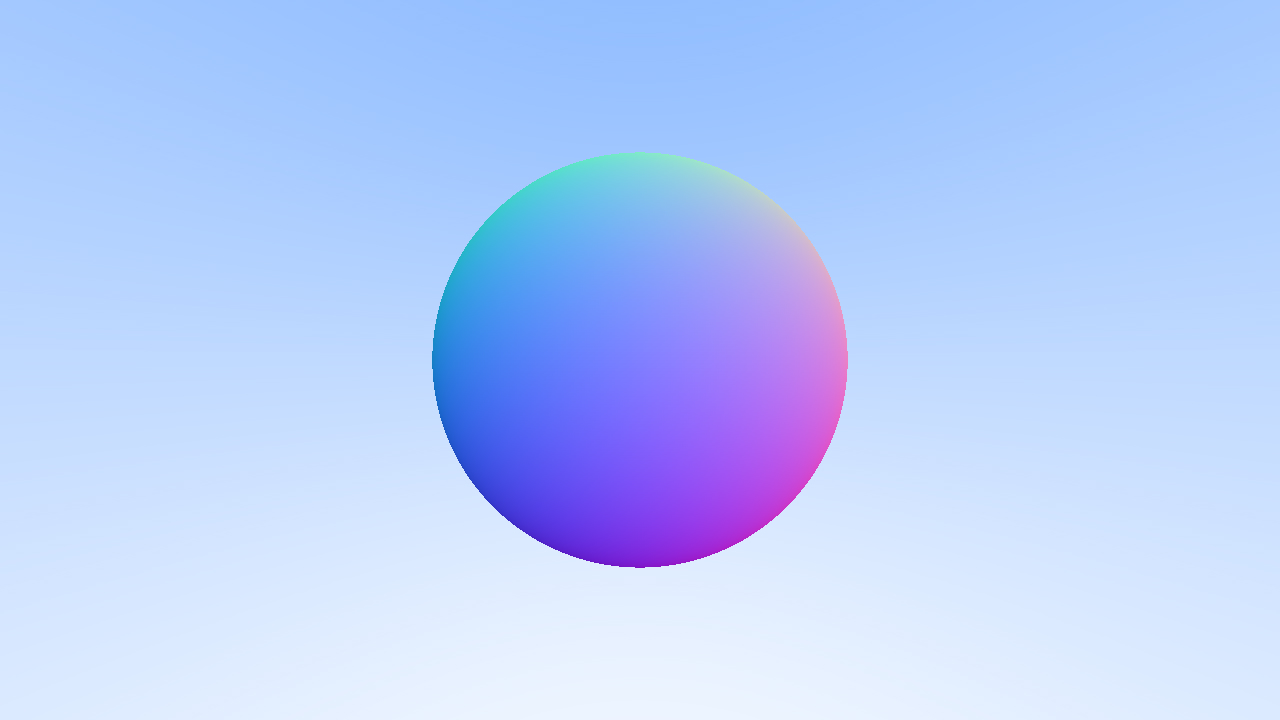
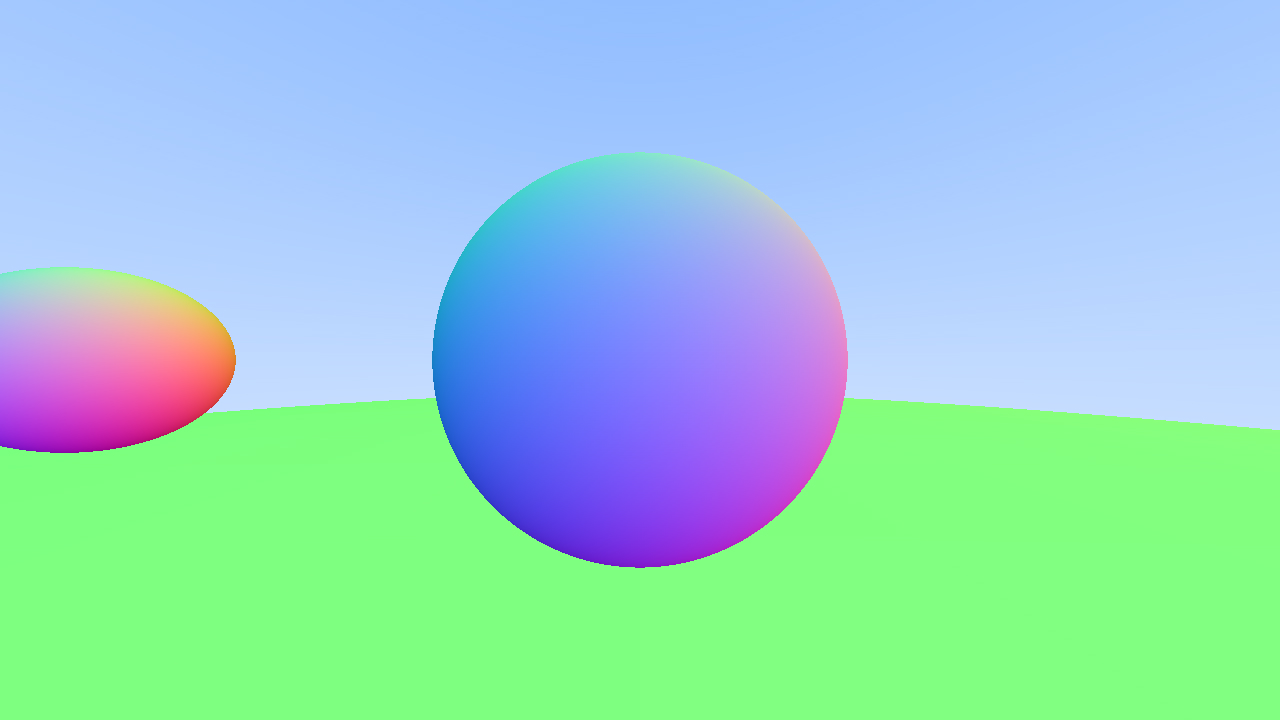
multiple hittable Object possible

diff --git a/RayTracing-Weekend/main.cpp b/RayTracing-Weekend/main.cpp
@@ -1,16 +1,21 @@
 #include <iostream>
 #include <fstream>
 #include <sstream>
+#include <windows.h>
 
+//jpg output
 #define STB_IMAGE_IMPLEMENTATION
 #define STBI_MSC_SECURE_CRT
 #define STB_IMAGE_WRITE_IMPLEMENTATION
 #include "stb_image.h"
 #include "stb_image_write.h"
 
-#include "color.h"
-#include "Vec3.h"
-#include "ray.h"
+//own utilities
+#include "Utility.h"
+
+#include "Color.h"
+#include "Sphere.h"
+#include "HittableList.h"
 
 double hitSphere(const Point3& center, double radius, const Ray& r) {
     Vec3 oc = r.getOrigin() - center;
@@ -26,14 +31,13 @@ double hitSphere(const Point3& center, double radius, const Ray& r) {
     }
 }
 
-Color rayColor(const Ray& r) {
-    auto t = hitSphere(Point3(0, 0, -1), 0.5, r);
-    if (t > 0.0) {
-        Vec3 N = normalize(r.at(t) - Vec3(0, 0, -1));
-        return 0.5 * Color(N.getX() + 1, N.getY() + 1, N.getZ() + 1);
+Color rayColor(const Ray& r, const Hittable& w) {
+    HitRecord rec;
+    if (w.hit(r, 0, infinity, rec)) {
+        return 0.5 * (rec.normal + Color(1, 1, 1));
     }
     Vec3 unitDirection = normalize(r.getDirection());
-    t = 0.5 * (unitDirection.getY() + 1.0);
+    auto t = 0.5 * (unitDirection.getY() + 1.0);
     return (1.0 - t) * Color(1.0, 1.0, 1.0) + t * Color(0.5, 0.7, 1.0);
 }
 
@@ -43,6 +47,12 @@ int main() {
     const int imageWidth = 1280;
     const int imageHeight = static_cast<int>(imageWidth / aspect);
     #define CHANNEL_NUM 3
+
+    //World
+    HittableList world;
+    world.add(make_shared<Sphere>(Point3(0, 0, -1), 0.5));
+    world.add(make_shared<Sphere>(Point3(0, -100.5, -1), 100));
+    world.add(make_shared<Sphere>(Point3(-1.5, 0, -1), 0.25));
 
     //Camera 
     auto viewportHeight = 2.0;
@@ -66,7 +76,7 @@ int main() {
             auto u = double(i) / (imageWidth - 1);
             auto v = double(j) / (imageHeight - 1);
             Ray r(origin, lowerLeftCorner + u * horizontal + v * vertical - origin);
-            Color pixelColor = rayColor(r);
+            Color pixelColor = rayColor(r, world);
 
             pixels[index++] = static_cast<int>(255.999 * pixelColor.getX());
             pixels[index++] = static_cast<int>(255.999 * pixelColor.getY());
@@ -76,6 +86,7 @@ int main() {
 
     stbi_write_jpg("testImage.jpg", imageWidth, imageHeight, 3, pixels, 100);
     delete[] pixels;
+    ShellExecuteA(NULL, "open", "testImage.jpg", NULL, NULL, SW_SHOWNORMAL);
 
     std::cerr << "\nPicture rendered!\n";
 }

diff --git a/RayTracing-Weekend/HittableList.h b/RayTracing-Weekend/HittableList.h
@@ -1,0 +1,39 @@
+#pragma once
+
+#include <memory>
+#include <vector>
+
+#include "Hittable.h"
+
+using std::shared_ptr;
+using std::make_shared;
+
+class HittableList : public Hittable {
+public:
+	HittableList() : objects() {}
+	HittableList(shared_ptr<Hittable> obj) { add(obj); }
+
+	void clear() { objects.clear(); }
+	void add(shared_ptr<Hittable> obj) { objects.push_back(obj); }
+
+	virtual bool hit(const Ray& r, double t_min, double t_max, HitRecord& rec) const override;
+
+public:
+	std::vector<shared_ptr<Hittable>> objects;
+};
+
+bool HittableList::hit(const Ray& r, double t_min, double t_max, HitRecord& rec) const {
+    HitRecord temp_rec;
+    bool hitAnything = false;
+    auto closest_so_far = t_max;
+
+    for (const auto& object : objects) {
+        if (object->hit(r, t_min, closest_so_far, temp_rec)) {
+            hitAnything = true;
+            closest_so_far = temp_rec.t;
+            rec = temp_rec;
+        }
+    }
+
+    return hitAnything;
+}

diff --git a/RayTracing-Weekend/Utility.h b/RayTracing-Weekend/Utility.h
@@ -1,0 +1,19 @@
+#pragma once
+
+#include <cmath>
+#include <limits>
+#include <memory>
+
+using std::shared_ptr;
+using std::make_shared;
+using std::sqrt;
+
+const double infinity = std::numeric_limits<double>::infinity();
+const double pi = 3.1415926535897932385;
+
+inline double degToRad(double degrees) {
+    return degrees * pi / 180.0;
+}
+
+#include "ray.h"
+#include "vec3.h"

diff --git a/RayTracing-Weekend/Hittable.h b/RayTracing-Weekend/Hittable.h
@@ -8,6 +8,12 @@ struct HitRecord {
 	Point3 p;
 	Vec3 normal;
 	double t;
+	bool frontFace;
+
+	inline void setFaceNormal(const Ray& r, const Vec3& outwardNormal) {
+		frontFace = dot(r.getDirection(), outwardNormal) < 0;
+		normal = frontFace ? outwardNormal : -outwardNormal;
+	}
 };
 
 class Hittable {

diff --git a/RayTracing-Weekend/Sphere.h b/RayTracing-Weekend/Sphere.h
@@ -43,6 +43,8 @@ bool Sphere::hit(const Ray& r, double t_min, double t_max, HitRecord& rec) const
     rec.t = root;
     rec.p = r.at(rec.t);
     rec.normal = (rec.p - center) / radius;
+    Vec3 outwardNormal = (rec.p - center) / radius;
+    rec.setFaceNormal(r, outwardNormal);
 
     return true;
 }
